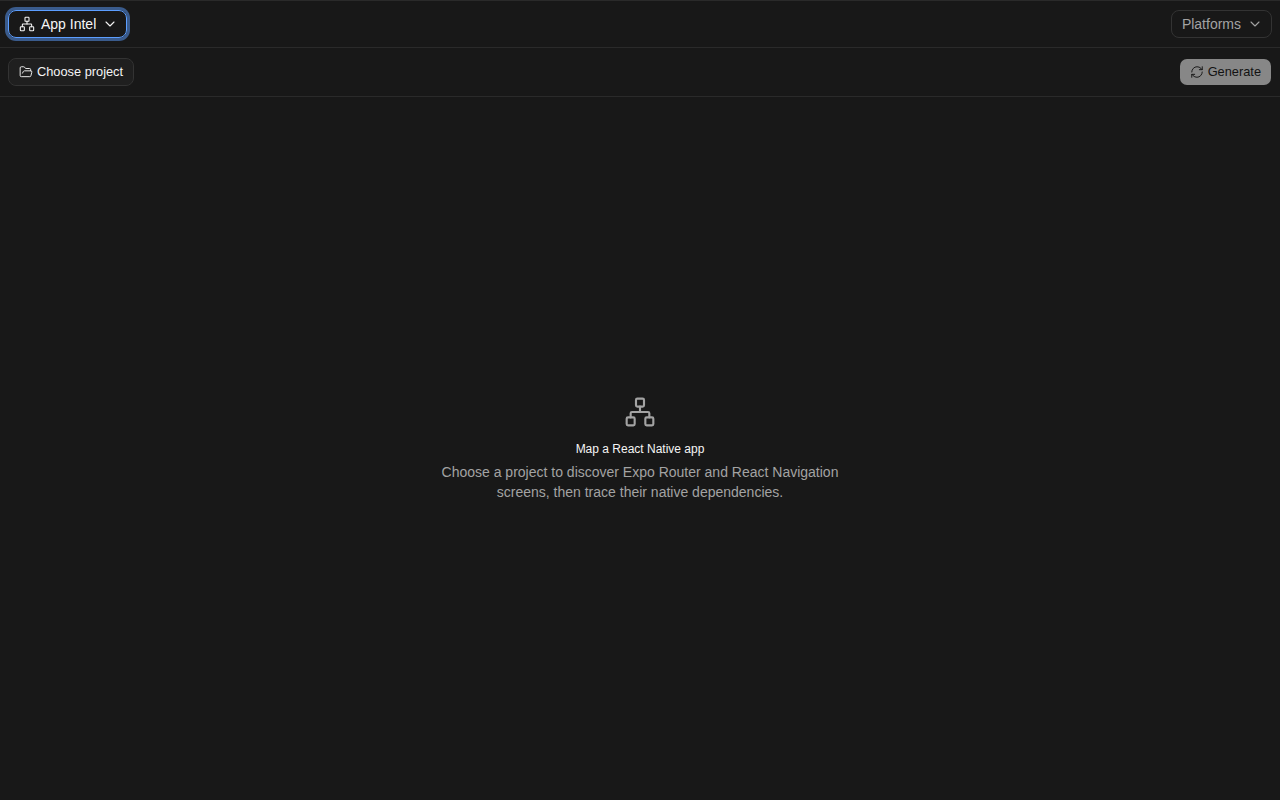
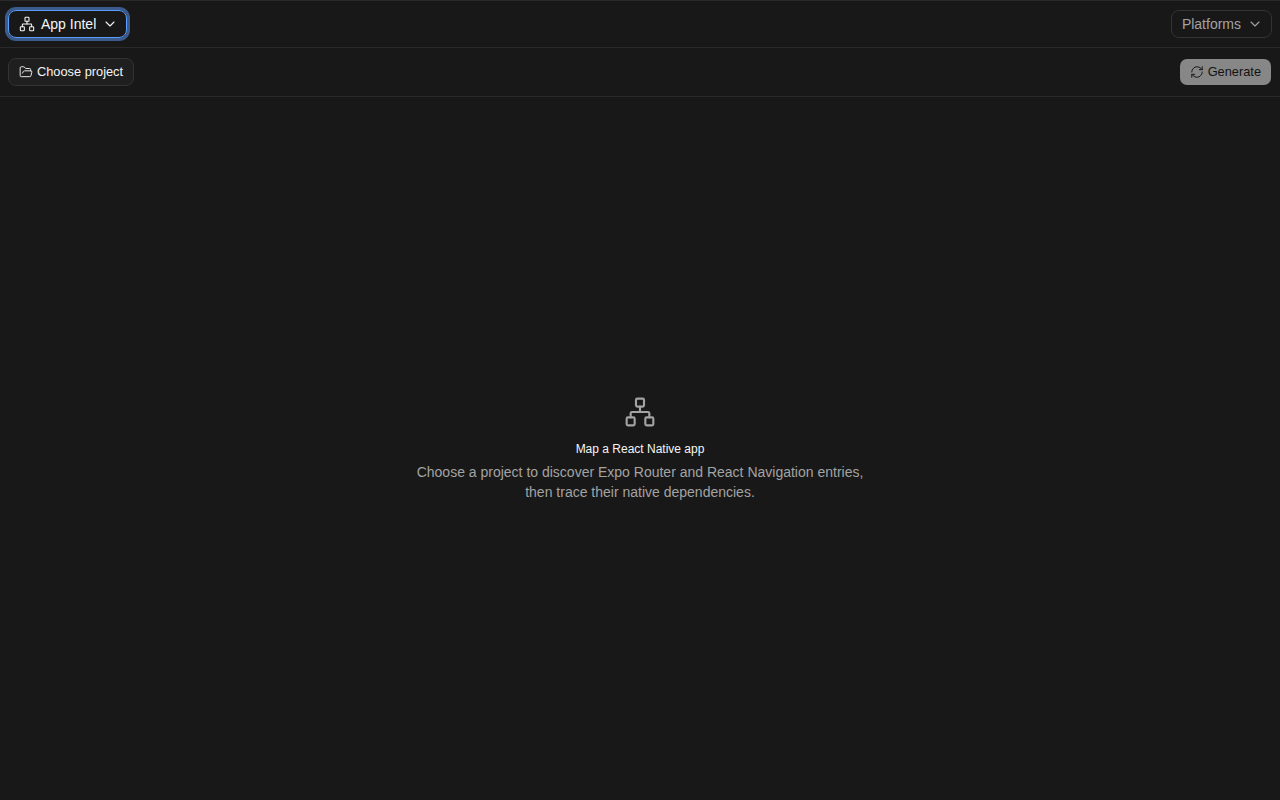
feat: ui feedbacks

Changed region(s): [[0.3125, 0.5625, 0.6562, 0.625]]

diff --git a/packages/ui/src/components/app-intelligence-view.tsx b/packages/ui/src/components/app-intelligence-view.tsx
@@ -278,6 +278,36 @@ function FlowView({ snapshot, start, toggled, expanded, litBoundary, height, onT
   </svg>;
 }
 
+function BoundaryOptions({ available, selected, lit, onToggle, onLight, onAll }: {
+  available: Array<{ boundary: Boundary; count: number }>; selected: ReadonlySet<string>; lit: string | null;
+  onToggle: (boundary: Boundary) => void; onLight?: (boundary: Boundary) => void; onAll: (checked: boolean) => void;
+}) {
+  const all = available.length > 0 && available.every(entry => selected.has(entry.boundary));
+  return <>
+    <label className="flex items-center gap-2 rounded-md px-1.5 py-1 text-xs font-medium hover:bg-muted/50">
+      <input type="checkbox" data-boundary="all" checked={all} onChange={event => onAll(event.target.checked)} />All
+    </label>
+    <div className="flex flex-col gap-0.5" role="group" aria-label="Boundaries">
+      {available.map(({ boundary, count }) => {
+        const on = selected.has(boundary);
+        const highlighted = lit === `*:${boundary}`;
+        return <div key={boundary} className="flex items-center gap-1 rounded-md px-1.5 py-1 text-xs hover:bg-muted/50">
+          <label className="flex min-w-0 flex-1 items-center gap-2">
+            <input type="checkbox" data-boundary={boundary} checked={on} onChange={() => onToggle(boundary)} />
+            <span className="size-2 shrink-0 rounded-full" style={{ background: boundaryColor(boundary) }} />
+            <span className="truncate">{boundaryLabel[boundary]}</span>
+            <span className="ml-auto shrink-0 pl-1 tabular-nums text-muted-foreground">{count}</span>
+          </label>
+          {onLight && <button type="button" data-boundary-light={boundary} aria-pressed={highlighted} title={`Highlight the ${boundaryLabel[boundary]} connectors`}
+            onClick={() => onLight(boundary)} className="grid size-5 shrink-0 place-items-center rounded-full">
+            <span className="size-2.5 rounded-full border" style={{ borderColor: boundaryColor(boundary), background: highlighted ? boundaryColor(boundary) : "transparent" }} />
+          </button>}
+        </div>;
+      })}
+    </div>
+  </>;
+}
+
 /**
  * The entry-point filter: a search field plus one checkbox per boundary, in a dropdown so the
  * list beside it keeps the width for names and paths.
@@ -285,7 +315,7 @@ function FlowView({ snapshot, start, toggled, expanded, litBoundary, height, onT
 function BoundaryFilter({ available, selected, lit, query, onQueryChange, onToggle, onLight, onAll }: {
   available: Array<{ boundary: Boundary; count: number }>; selected: ReadonlySet<string>; lit: string | null;
   query: string; onQueryChange: (value: string) => void;
-  onToggle: (boundary: Boundary) => void; onLight: (boundary: Boundary) => void; onAll: () => void;
+  onToggle: (boundary: Boundary) => void; onLight: (boundary: Boundary) => void; onAll: (checked: boolean) => void;
 }) {
   const all = available.length > 0 && available.every(entry => selected.has(entry.boundary));
   const activeCount = available.filter(entry => selected.has(entry.boundary)).length;
@@ -297,33 +327,59 @@ function BoundaryFilter({ available, selected, lit, query, onQueryChange, onTogg
       </Button>
     </PopoverTrigger>
     <PopoverContent align="end" className="w-64 p-2" aria-label="Filter and search entry points" data-flow-filter>
-      <InputGroup size="sm"><InputGroupInput type="search" aria-label="Search the graph" placeholder="Search screens…" value={query} onChange={event => onQueryChange(event.target.value)} /><InputGroupAddon><SearchIcon /></InputGroupAddon></InputGroup>
-      {available.length > 0 && <>
-        <label className="mt-2 flex items-center gap-2 rounded-md px-1.5 py-1 text-xs font-medium hover:bg-muted/50">
-          <input type="checkbox" data-boundary="all" checked={all} onChange={onAll} />All
-        </label>
-        <div className="flex flex-col gap-0.5" role="group" aria-label="Boundaries">
-          {available.map(({ boundary, count }) => {
-            const on = selected.has(boundary);
-            const highlighted = lit === `*:${boundary}`;
-            return <div key={boundary} className="flex items-center gap-1 rounded-md px-1.5 py-1 text-xs hover:bg-muted/50">
-              <label className="flex min-w-0 flex-1 items-center gap-2">
-                <input type="checkbox" data-boundary={boundary} checked={on} onChange={() => onToggle(boundary)} />
-                <span className="size-2 shrink-0 rounded-full" style={{ background: boundaryColor(boundary) }} />
-                <span className="truncate">{boundaryLabel[boundary]}</span>
-                <span className="ml-auto shrink-0 pl-1 tabular-nums text-muted-foreground">{count}</span>
-              </label>
-              {/* Lights this boundary's connectors at every hop; the checkbox still controls visibility. */}
-              <button type="button" data-boundary-light={boundary} aria-pressed={highlighted} title={`Highlight the ${boundaryLabel[boundary]} connectors`}
-                onClick={() => onLight(boundary)} className="grid size-5 shrink-0 place-items-center rounded-full">
-                <span className="size-2.5 rounded-full border" style={{ borderColor: boundaryColor(boundary), background: highlighted ? boundaryColor(boundary) : "transparent" }} />
-              </button>
-            </div>;
-          })}
-        </div>
-      </>}
+      <InputGroup size="sm"><InputGroupInput type="search" aria-label="Search the graph" placeholder="Search entries…" value={query} onChange={event => onQueryChange(event.target.value)} /><InputGroupAddon><SearchIcon /></InputGroupAddon></InputGroup>
+      {available.length > 0 && <div className="mt-2"><BoundaryOptions available={available} selected={selected} lit={lit}
+        onToggle={onToggle} onLight={onLight} onAll={onAll} /></div>}
     </PopoverContent>
   </Popover>;
+}
+
+/** The generated project's home: its entry-point boundaries arranged around the project. */
+function ProjectOverview({ projectName, available, activeBoundary, onSelect }: {
+  projectName: string; available: Array<{ boundary: Boundary; count: number }>;
+  activeBoundary: string | null; onSelect: (boundary: Boundary) => void;
+}) {
+  const total = available.reduce((sum, entry) => sum + entry.count, 0);
+  const centre = { x: 300, y: 210 };
+  const points = available.map((entry, index) => {
+    const angle = -Math.PI / 2 + index * (Math.PI * 2 / Math.max(available.length, 1));
+    return { ...entry, x: centre.x + Math.cos(angle) * 220, y: centre.y + Math.sin(angle) * 145 };
+  });
+
+  return <div data-project-overview className="relative aspect-[10/7] w-full max-w-[640px] min-w-[300px] cursor-auto" role="group" aria-label={`${projectName} entry-point areas`}>
+    <svg className="pointer-events-none absolute inset-0 size-full overflow-visible" viewBox="0 0 600 420" aria-hidden="true">
+      {[88, 105, 122].map((radius, index) => <circle key={radius} data-project-orbit className="app-intel-project-orbit"
+        cx={centre.x} cy={centre.y} r={radius} fill="none" stroke="currentColor" strokeDasharray={index === 2 ? "3 7" : undefined}
+        style={{ animationDelay: `${index * 0.8}s` }} />)}
+      {points.map(({ boundary, x, y }) => <g key={boundary} data-area-connector={boundary}>
+        <line x1={centre.x} y1={centre.y} x2={x} y2={y} stroke={boundaryColor(boundary)} strokeOpacity="0.38" strokeWidth="1.5" />
+        <circle cx={x} cy={y} r="3" fill={boundaryColor(boundary)} fillOpacity="0.8" />
+      </g>)}
+    </svg>
+    <div data-project-node className="absolute left-1/2 top-1/2 grid size-36 -translate-x-1/2 -translate-y-1/2 place-items-center rounded-full border bg-background/95 p-4 text-center shadow-[0_10px_35px_rgb(0_0_0/0.12)] backdrop-blur-sm">
+      <div className="min-w-0">
+        <span className="mx-auto mb-2 grid size-8 place-items-center rounded-full bg-primary/10 text-primary"><NetworkIcon className="size-4" /></span>
+        <strong className="block truncate text-sm font-semibold" title={projectName}>{projectName}</strong>
+        <span className="mt-1 block text-[10.5px] tabular-nums text-muted-foreground">{total} {total === 1 ? "entry point" : "entry points"}</span>
+      </div>
+    </div>
+    {points.map(({ boundary, count, x, y }, index) => {
+      const active = activeBoundary === boundary;
+      return <div key={boundary} className="absolute -translate-x-1/2 -translate-y-1/2" style={{ left: `${x / 6}%`, top: `${y / 4.2}%` }}>
+        <button type="button" data-area-node={boundary} aria-pressed={active} onClick={() => onSelect(boundary)}
+          className="app-intel-area-node group flex w-28 items-center gap-2 rounded-xl border bg-background/95 px-3 py-2.5 text-left shadow-sm backdrop-blur-sm transition-[background-color,border-color,box-shadow,transform] duration-200 hover:shadow-md focus-visible:outline-2 focus-visible:outline-offset-2 focus-visible:outline-ring"
+          style={{ animationDelay: `${2 + index * 0.35}s`, borderColor: active ? boundaryColor(boundary) : undefined, background: active ? `color-mix(in oklab, ${boundaryColor(boundary)} 12%, var(--background))` : undefined }}>
+          <span className="size-2.5 shrink-0 rounded-full shadow-[0_0_0_3px_var(--background)]" style={{ background: boundaryColor(boundary) }} />
+          <span className="min-w-0 flex-1">
+            <span className="block truncate text-[11px] font-medium">{boundaryLabel[boundary]}</span>
+            <span className="block text-[10px] tabular-nums text-muted-foreground">{count} {count === 1 ? "entry" : "entries"}</span>
+          </span>
+        </button>
+      </div>;
+    })}
+    {available.length === 0 && <p className="absolute inset-x-0 bottom-8 text-center text-xs text-muted-foreground">No entry points were found in this graph.</p>}
+    {available.length > 0 && <p className="absolute inset-x-0 bottom-1 text-center text-[10.5px] text-muted-foreground">Select an area to browse its entry points</p>}
+  </div>;
 }
 
 export const AppIntelligenceView = memo(function AppIntelligenceView({ panel }: { panel: AppIntelligencePanel }) {
@@ -374,12 +430,12 @@ export const AppIntelligenceView = memo(function AppIntelligenceView({ panel }: 
     {/* A reopened panel starts blank and reloads what it remembered: showing the empty states
         while that load is in flight would flash the wrong screen before the real one lands. */}
     {state.busy === "loading" && !snapshot ? <div className="grid flex-1 place-items-center p-8 text-center"><p className="text-sm text-muted-foreground">Loading App Intelligence…</p></div>
-      : !state.projectPath ? <div className="grid flex-1 place-items-center p-8 text-center"><div><NetworkIcon className="mx-auto mb-3 size-8 text-muted-foreground" /><h2 className="font-medium">Map a React Native app</h2><p className="mt-1 max-w-md text-sm text-muted-foreground">Choose a project to discover Expo Router and React Navigation screens, then trace their native dependencies.</p></div></div>
-      : !snapshot ? <div className="grid flex-1 place-items-center p-8 text-center"><div><h2 className="font-medium">No App Intelligence yet</h2><p className="mt-1 text-sm text-muted-foreground">Generate a static iOS + Android screen and dependency graph.</p></div></div>
+      : !state.projectPath ? <div className="grid flex-1 place-items-center p-8 text-center"><div><NetworkIcon className="mx-auto mb-3 size-8 text-muted-foreground" /><h2 className="font-medium">Map a React Native app</h2><p className="mt-1 max-w-md text-sm text-muted-foreground">Choose a project to discover Expo Router and React Navigation entries, then trace their native dependencies.</p></div></div>
+      : !snapshot ? <div className="grid flex-1 place-items-center p-8 text-center"><div><h2 className="font-medium">No App Intelligence yet</h2><p className="mt-1 text-sm text-muted-foreground">Generate a static iOS + Android entry-point and dependency graph.</p></div></div>
       : <div className={`grid min-h-0 flex-1 ${asideOpen ? "grid-cols-[minmax(20rem,1fr)_minmax(13rem,15rem)]" : "grid-cols-[1fr]"} max-[720px]:grid-cols-1 max-[720px]:grid-rows-[minmax(0,1.6fr)_minmax(0,1fr)]`}>
         <main className="flex min-h-0 min-w-0 flex-col border-r max-[720px]:border-b max-[720px]:border-r-0">
           <div className="flex shrink-0 items-center gap-2 border-b px-3 py-1.5 text-xs">
-            <span className="truncate font-medium">{snapshot.screens[selected ?? ""]?.title ?? "Choose a screen"}</span>
+            <span className="truncate font-medium">{snapshot.screens[selected ?? ""]?.title ?? "Project overview"}</span>
             <div className="ml-auto flex shrink-0 items-center gap-2">
               <div className="flex shrink-0 items-center gap-0.5 rounded-md border" role="group" aria-label="Zoom">
                 <button type="button" data-zoom="out" aria-label="Zoom out" title="Zoom out" className="grid size-6 place-items-center text-muted-foreground hover:text-foreground" onClick={zoomOut}><MinusIcon className="size-3" /></button>
@@ -394,13 +450,17 @@ export const AppIntelligenceView = memo(function AppIntelligenceView({ panel }: 
             </div>
           </div>
           <div ref={flowRef} data-flow-canvas className="min-h-0 flex-1 cursor-grab touch-none overflow-auto [&[data-panning]]:cursor-grabbing">
-            <div className="w-max will-change-transform">
-              {flowStart ? <FlowView snapshot={snapshot} start={flowStart} toggled={toggled} expanded={expanded} litBoundary={state.litBoundary} height={flowSize.height}
-                onToggleGroup={(key, open) => panel.toggleGroup(key, open)} onLight={key => panel.litBoundaryTo(key)} onShowAll={key => panel.showAllIn(key)} onHover={setHover} />
-                : <div className="grid place-items-center p-6 text-center text-sm text-muted-foreground" style={{ width: flowSize.width, height: flowSize.height }}>Choose an entry point to trace its dependencies.</div>}
-            </div>
+            {flowStart ? <div className="w-max will-change-transform"><FlowView snapshot={snapshot} start={flowStart} toggled={toggled} expanded={expanded} litBoundary={state.litBoundary} height={flowSize.height}
+              onToggleGroup={(key, open) => panel.toggleGroup(key, open)} onLight={key => panel.litBoundaryTo(key)} onShowAll={key => panel.showAllIn(key)} onHover={setHover} /></div>
+              : <div data-flow-empty className="grid size-full place-items-center p-6">
+                <ProjectOverview projectName={folderName(state.projectPath)} available={available}
+                  activeBoundary={state.boundaries?.length === 1 ? state.boundaries[0] : null}
+                  onSelect={boundary => { setQuery(""); panel.setBoundaries([boundary]); setAsideOpen(true); setRailOpen(true); }} />
+              </div>}
           </div>
-          <p className="shrink-0 border-t px-3 py-2 text-[11px] text-muted-foreground">Each hop groups its imports by boundary and opens the first of them — click another to drill in, or its dot to light up its connectors. Drag or scroll to pan, ⌘/Ctrl-scroll or the buttons to zoom, double-click to reset.</p>
+          <p className="shrink-0 border-t px-3 py-2 text-[11px] text-muted-foreground">{flowStart
+            ? "Each hop groups its imports by boundary and opens the first of them — click another to drill in, or its dot to light up its connectors. Drag or scroll to pan, ⌘/Ctrl-scroll or the buttons to zoom, double-click to reset."
+            : "Areas group the app's entry points by their source boundary. Choose one to filter and open the matching list."}</p>
         </main>
         {asideOpen && <aside className="flex min-h-0 min-w-0 flex-col">
           <div className="flex shrink-0 items-center gap-1 border-b px-2 py-2">
@@ -410,7 +470,7 @@ export const AppIntelligenceView = memo(function AppIntelligenceView({ panel }: 
               <h2 className="min-w-0 flex-1 truncate text-[11px] font-semibold uppercase tracking-wider text-muted-foreground">{screens.length} entry points</h2>
             </button>
             <BoundaryFilter available={available} selected={selectedBoundaries} lit={state.litBoundary} query={query} onQueryChange={setQuery}
-              onToggle={toggleBoundary} onLight={boundary => panel.litBoundaryTo(`*:${boundary}`)} onAll={() => panel.setBoundaries(null)} />
+              onToggle={toggleBoundary} onLight={boundary => panel.litBoundaryTo(`*:${boundary}`)} onAll={checked => panel.setBoundaries(checked ? null : [])} />
           </div>
           {railOpen && <div id="app-intel-entries" className="min-h-0 flex-1 overflow-auto">
             {screens.length === 0 ? <p className="px-3 py-3 text-[11px] text-muted-foreground">No entry point matches the filter.</p>

diff --git a/packages/ui/test/app-intelligence-view.test.ts b/packages/ui/test/app-intelligence-view.test.ts
@@ -96,6 +96,56 @@ async function mount(t: TestContext, app: Pick<App, "callServerTool">) {
   return { dom, act, panel };
 }
 
+test("the project overview filters the right rail from its connected area nodes", async t => {
+  const snapshot = fixture();
+  const source = "src/components/Settings.tsx";
+  snapshot.screens.settings = { title: "Settings", route: "/settings", source, layouts: [] };
+  snapshot.files[source] = { fingerprint: "x", kind: "source", reach: 1 };
+  const edge = snapshot.edges.push({ from: "screen:settings", to: `file:${source}`, kind: "source", platforms: ["ios", "android"] }) - 1;
+  snapshot.indexes.screens.settings = ["settings"];
+  snapshot.indexes.outgoing["screen:settings"] = [edge];
+  snapshot.indexes.incoming[`file:${source}`] = [edge];
+  const app = { async callServerTool({ name }: { name: string }) {
+    if (name === "mobile_app_intel_snapshot") return { content: [], structuredContent: { projectPath: "/tmp/social-app", snapshot } };
+    return { content: [], structuredContent: {} };
+  } };
+  const { dom, act, panel } = await mount(t, app);
+  await act(async () => { panel.setAvailable(true); panel.show(); });
+  await act(async () => { await new Promise(done => setTimeout(done, 0)); });
+
+  const overview = dom.window.document.querySelector("[data-project-overview]") as HTMLElement;
+  assert.ok(overview, "the generated graph starts with the project overview");
+  assert.match((overview.querySelector("[data-project-node]") as HTMLElement).textContent ?? "", /social-app/);
+  assert.match((overview.querySelector("[data-project-node]") as HTMLElement).textContent ?? "", /3 entry points/);
+  const areas = [...overview.querySelectorAll<HTMLButtonElement>("[data-area-node]")];
+  assert.deepEqual(areas.map(area => area.dataset.areaNode), ["component", "other"]);
+  assert.match(areas[0].textContent ?? "", /1 entry/);
+  assert.match(areas[1].textContent ?? "", /2 entries/);
+  assert.doesNotMatch(overview.textContent ?? "", /screens?/i, "the overview consistently calls them entries");
+  assert.equal(areas[0].style.animationDelay, "2s", "the first click prompt waits two seconds");
+  assert.equal(areas[1].style.animationDelay, "2.35s", "the prompts are staggered around the project");
+  assert.equal(overview.querySelectorAll("[data-area-connector]").length, 2, "each area is connected to the project");
+  const orbits = [...overview.querySelectorAll<SVGCircleElement>("[data-project-orbit]")];
+  assert.equal(orbits.length, 3, "concentric pulses surround the project node");
+  assert.deepEqual(orbits.map(orbit => orbit.style.animationDelay), ["0s", "0.8s", "1.6s"], "the rings expand from the centre in sequence");
+
+  await act(async () => { areas[0].click(); });
+  assert.deepEqual(panel.getSnapshot().boundaries, ["component"], "clicking an area applies it as the sole filter");
+  assert.equal(panel.getSnapshot().selectedScreen, null, "filtering leaves screen selection to the right-hand list");
+  assert.equal(dom.window.document.querySelector('[data-area-node="component"]')?.getAttribute("aria-pressed"), "true");
+  const railToggle = dom.window.document.querySelector('aside button[aria-controls="app-intel-entries"]') as HTMLButtonElement;
+  assert.equal(railToggle.getAttribute("aria-expanded"), "true", "the matching list opens automatically");
+  const entries = [...dom.window.document.querySelectorAll<HTMLElement>("aside [data-entry]")];
+  assert.deepEqual(entries.map(entry => entry.dataset.entry), ["settings"]);
+
+  const trigger = dom.window.document.querySelector("[data-flow-filter-trigger]") as HTMLButtonElement;
+  assert.match(trigger.textContent ?? "", /1/, "the applied choice remains visible as an active filter");
+  await act(async () => { trigger.click(); });
+  assert.equal((dom.window.document.querySelector('[data-flow-filter] [data-boundary="component"]') as HTMLInputElement).checked, true);
+  assert.equal((dom.window.document.querySelector('[data-flow-filter] [data-boundary="other"]') as HTMLInputElement).checked, false);
+  await act(async () => { trigger.click(); await new Promise(done => setTimeout(done, 0)); });
+});
+
 test("App Intelligence traces a screen, groups each hop by boundary and folds a group away", async t => {
   const snapshot = fixture();
   const calls: Array<{ name: string; arguments?: Record<string, unknown> }> = [];
@@ -116,6 +166,10 @@ test("App Intelligence traces a screen, groups each hop by boundary and folds a 
   const railEntries = () => [...query("aside [data-entry]")].map(entry => entry.getAttribute("data-entry"));
   const groups = () => [...query("[data-flow-group]")].map(node => node.getAttribute("data-flow-group"));
   assert.ok(dom.window.document.getElementById("app-intelligence-panel"), "the panel keeps the id the package smoke test asserts");
+  const emptyFlow = dom.window.document.querySelector("[data-flow-empty]") as HTMLElement;
+  assert.ok(emptyFlow, "the canvas starts with an empty prompt before an entry point is chosen");
+  assert.equal(emptyFlow.style.width, "", "the empty prompt does not feed a measured width back into its scroll container");
+  assert.equal(emptyFlow.style.height, "", "the empty prompt does not feed a measured height back into its scroll container");
 
   // The picker is the workspace's own Select, showing the project by folder name. Its menu is a
   // popup the panel opens, so the switch itself is driven through the panel the trigger calls.

diff --git a/packages/ui/src/style.css b/packages/ui/src/style.css
@@ -30,6 +30,23 @@ html:is([data-view="recording"], [data-view="comparison"], [data-view="tracesift
 .recording-track[data-reveal="pending"] .recording-change-highlight { opacity: 0; }
 .recording-track[data-reveal="finished"] .recording-change-highlight { animation: recording-highlight-reveal 150ms ease-out 250ms both; }
 @keyframes recording-highlight-reveal { from { opacity: 0; } to { opacity: 1; } }
+.app-intel-area-node { animation: app-intel-area-prompt 7s ease-in-out infinite; will-change: transform; }
+.app-intel-area-node:hover, .app-intel-area-node:focus-visible { animation: none; transform: translateY(-2px) scale(1.03); }
+@keyframes app-intel-area-prompt {
+  0%, 8%, 100% { transform: scale(1); }
+  4% { transform: scale(1.07); }
+}
+.app-intel-project-orbit { opacity: 0; transform-box: fill-box; transform-origin: center; animation: app-intel-orbit-expand 4.8s cubic-bezier(.22,.75,.25,1) infinite; }
+@keyframes app-intel-orbit-expand {
+  0% { opacity: 0; transform: scale(.15); }
+  16% { opacity: .13; }
+  65% { opacity: .055; transform: scale(1); }
+  78%, 100% { opacity: 0; transform: scale(1); }
+}
+@media (prefers-reduced-motion: reduce) {
+  .app-intel-area-node { animation: none; }
+  .app-intel-project-orbit { animation: none; opacity: .06; transform: none; }
+}
 .recording-sidebar { display: flex; flex-direction: column; min-width: 0; padding: 16px; border-top: 1px solid var(--border); gap: 16px; }
 .recording-overview { border: 1px solid var(--border); border-radius: 10px; padding: 12px; }
 .recording-overview-bar { position: relative; height: 18px; margin-top: 14px; border-radius: 5px; background: var(--muted); overflow: hidden; }
